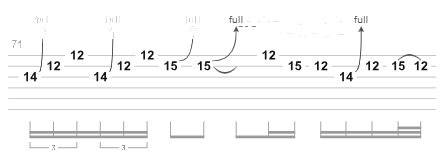
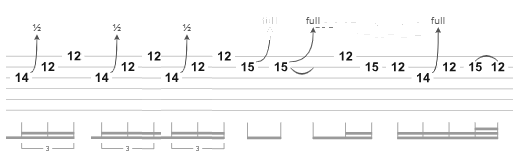
Replace War Pigs WP-1-2A crop; cache bump v240 (#25)

diff --git a/index.html b/index.html
@@ -6682,7 +6682,7 @@ function pullPlayQueue() {
 }
 function openPlayWindow() {
   var base = location.href.split("?")[0].split("#")[0];
-  var url = base + "?playboard=1&v=239";
+  var url = base + "?playboard=1&v=240";
   /* Centered popup window (not a tab) — no LL resize/move */
   var availL = (window.screen && typeof screen.availLeft === "number") ? screen.availLeft : 0;
   var availT = (window.screen && typeof screen.availTop === "number") ? screen.availTop : 0;
@@ -6711,7 +6711,7 @@ function openPlayWindow() {
     return null;
   }
   try {
-    if (w.location && w.location.href && w.location.href.indexOf("playboard=1") >= 0 && w.location.href.indexOf("v=239") < 0) {
+    if (w.location && w.location.href && w.location.href.indexOf("playboard=1") >= 0 && w.location.href.indexOf("v=240") < 0) {
       w.location.href = url;
     }
   } catch (e) {}
